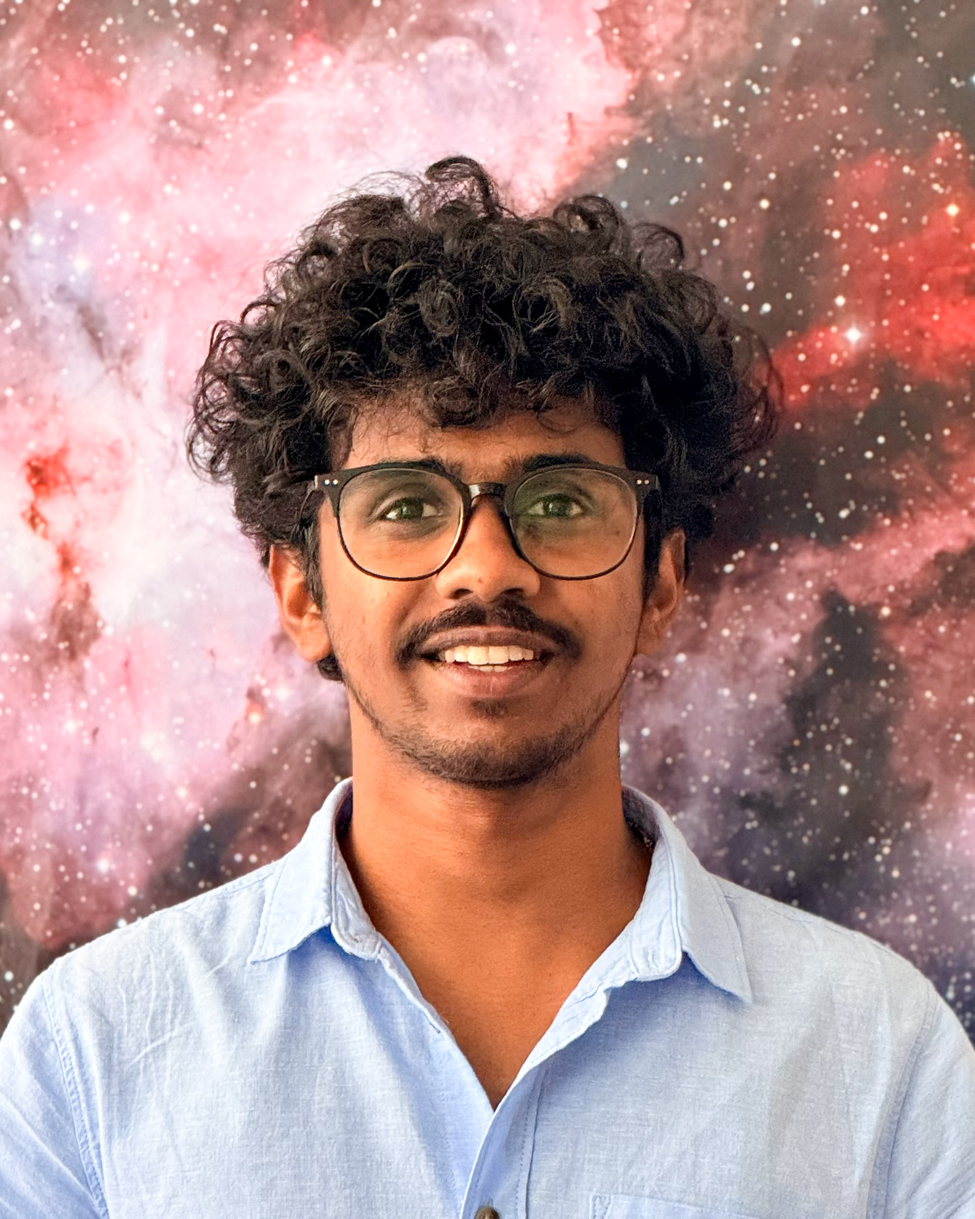
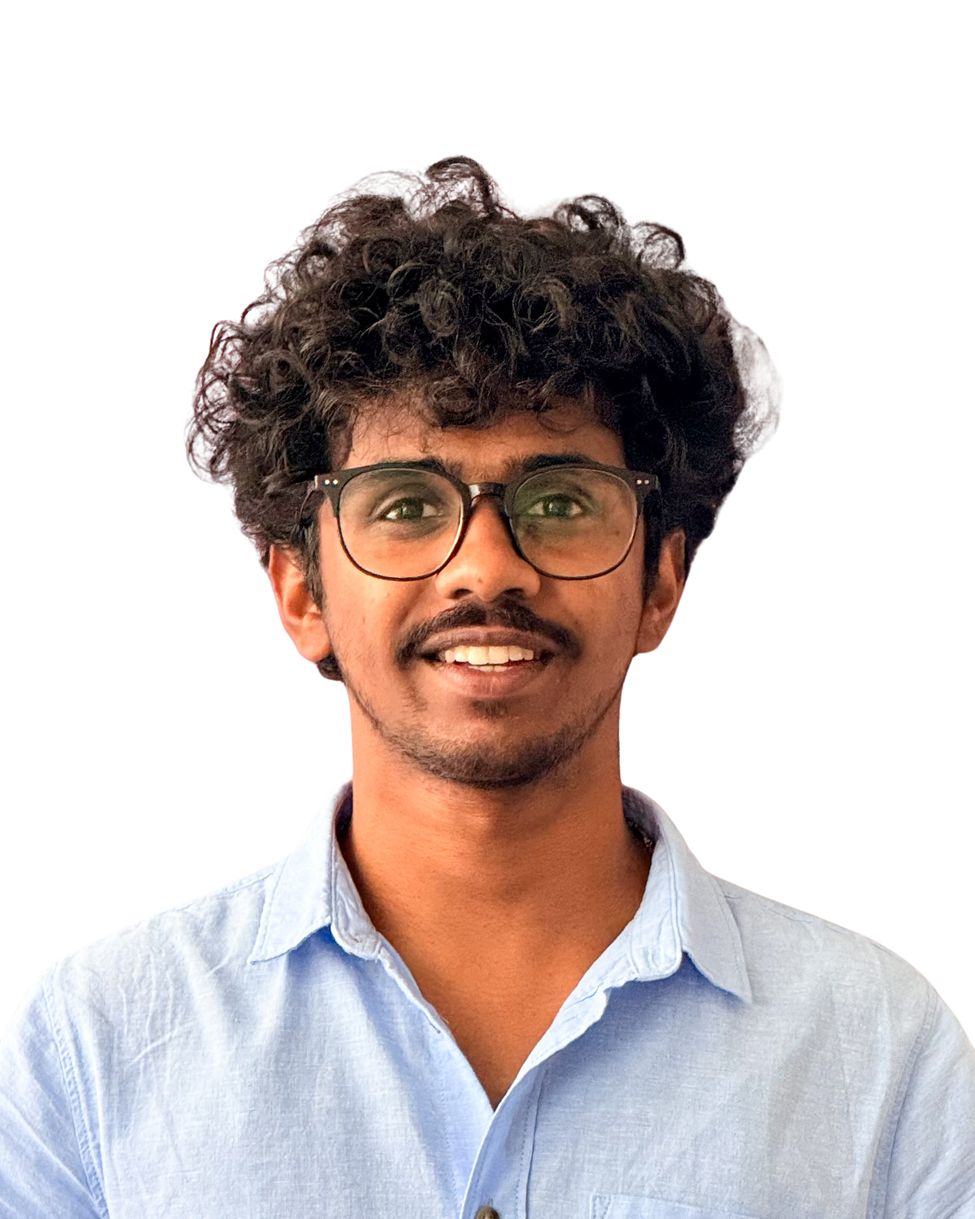
Added the detection images

diff --git a/_layouts/discovery.html b/_layouts/discovery.html
@@ -37,7 +37,7 @@ layout: page
     {% if d.image %}
     <figure>
         <img src="{{ d.image | relative_url }}" alt="{{ d.jname }} discovery plot">
-        {% if d.image_caption %}<figcaption>{{ d.image_caption }}</figcaption>{% endif %}
+        {% if d.image_caption %}<figcaption class="text-center">{{ d.image_caption }}</figcaption>{% endif %}
     </figure>
     {% endif %}
 

diff --git a/_discoveries/j1843-3217d.md b/_discoveries/j1843-3217d.md
@@ -6,6 +6,6 @@ p0_ms: 6.37
 dm: 71.512
 binary: "No"
 discovered: 2025-10-27
-image: /assets/discoveries/j1843-3217d.png
+image: /assets/discoveries/M70D.png
 image_caption: "Discovery plot for J1843−3217D (COMPACT)."
 ---

diff --git a/_discoveries/j1843-3217e.md b/_discoveries/j1843-3217e.md
@@ -6,6 +6,6 @@ p0_ms: 5.05
 dm: 71.53
 binary: "No"
 discovered: 2025-10-27
-image: /assets/discoveries/j1843-3217e.png
+image: /assets/discoveries/M70E.png
 image_caption: "Discovery plot for J1843−3217E (COMPACT)."
 ---

diff --git a/_discoveries/j1843-3217f.md b/_discoveries/j1843-3217f.md
@@ -6,6 +6,6 @@ p0_ms: 6.94
 dm: 70.775
 binary: "?"
 discovered: 2025-10-29
-image: 
+image: /assets/discoveries/M70F.png
 image_caption: "Discovery plot for J1843−3217F (COMPACT)."
 ---
